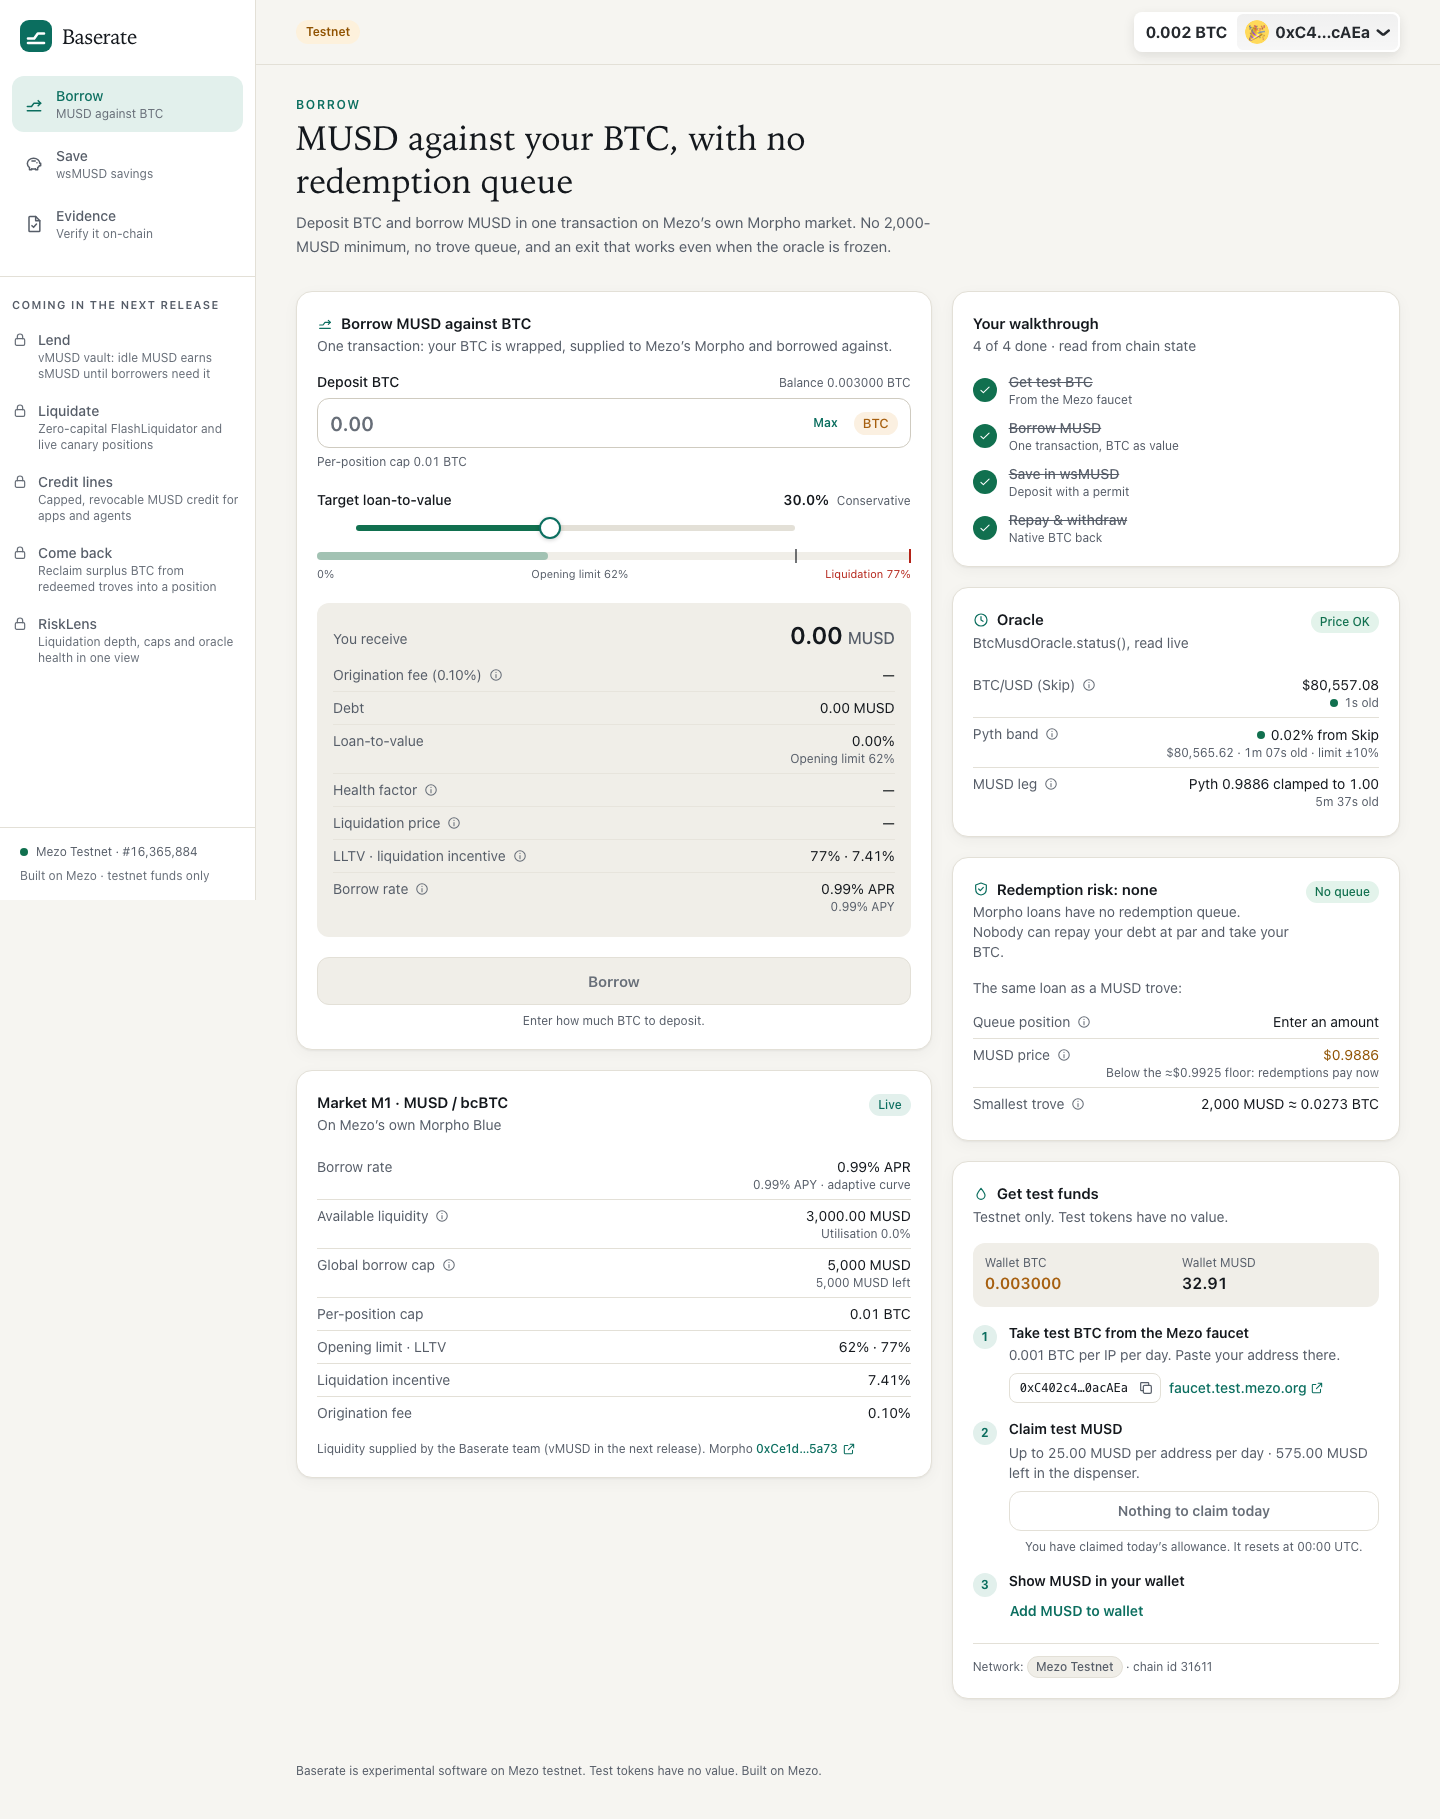
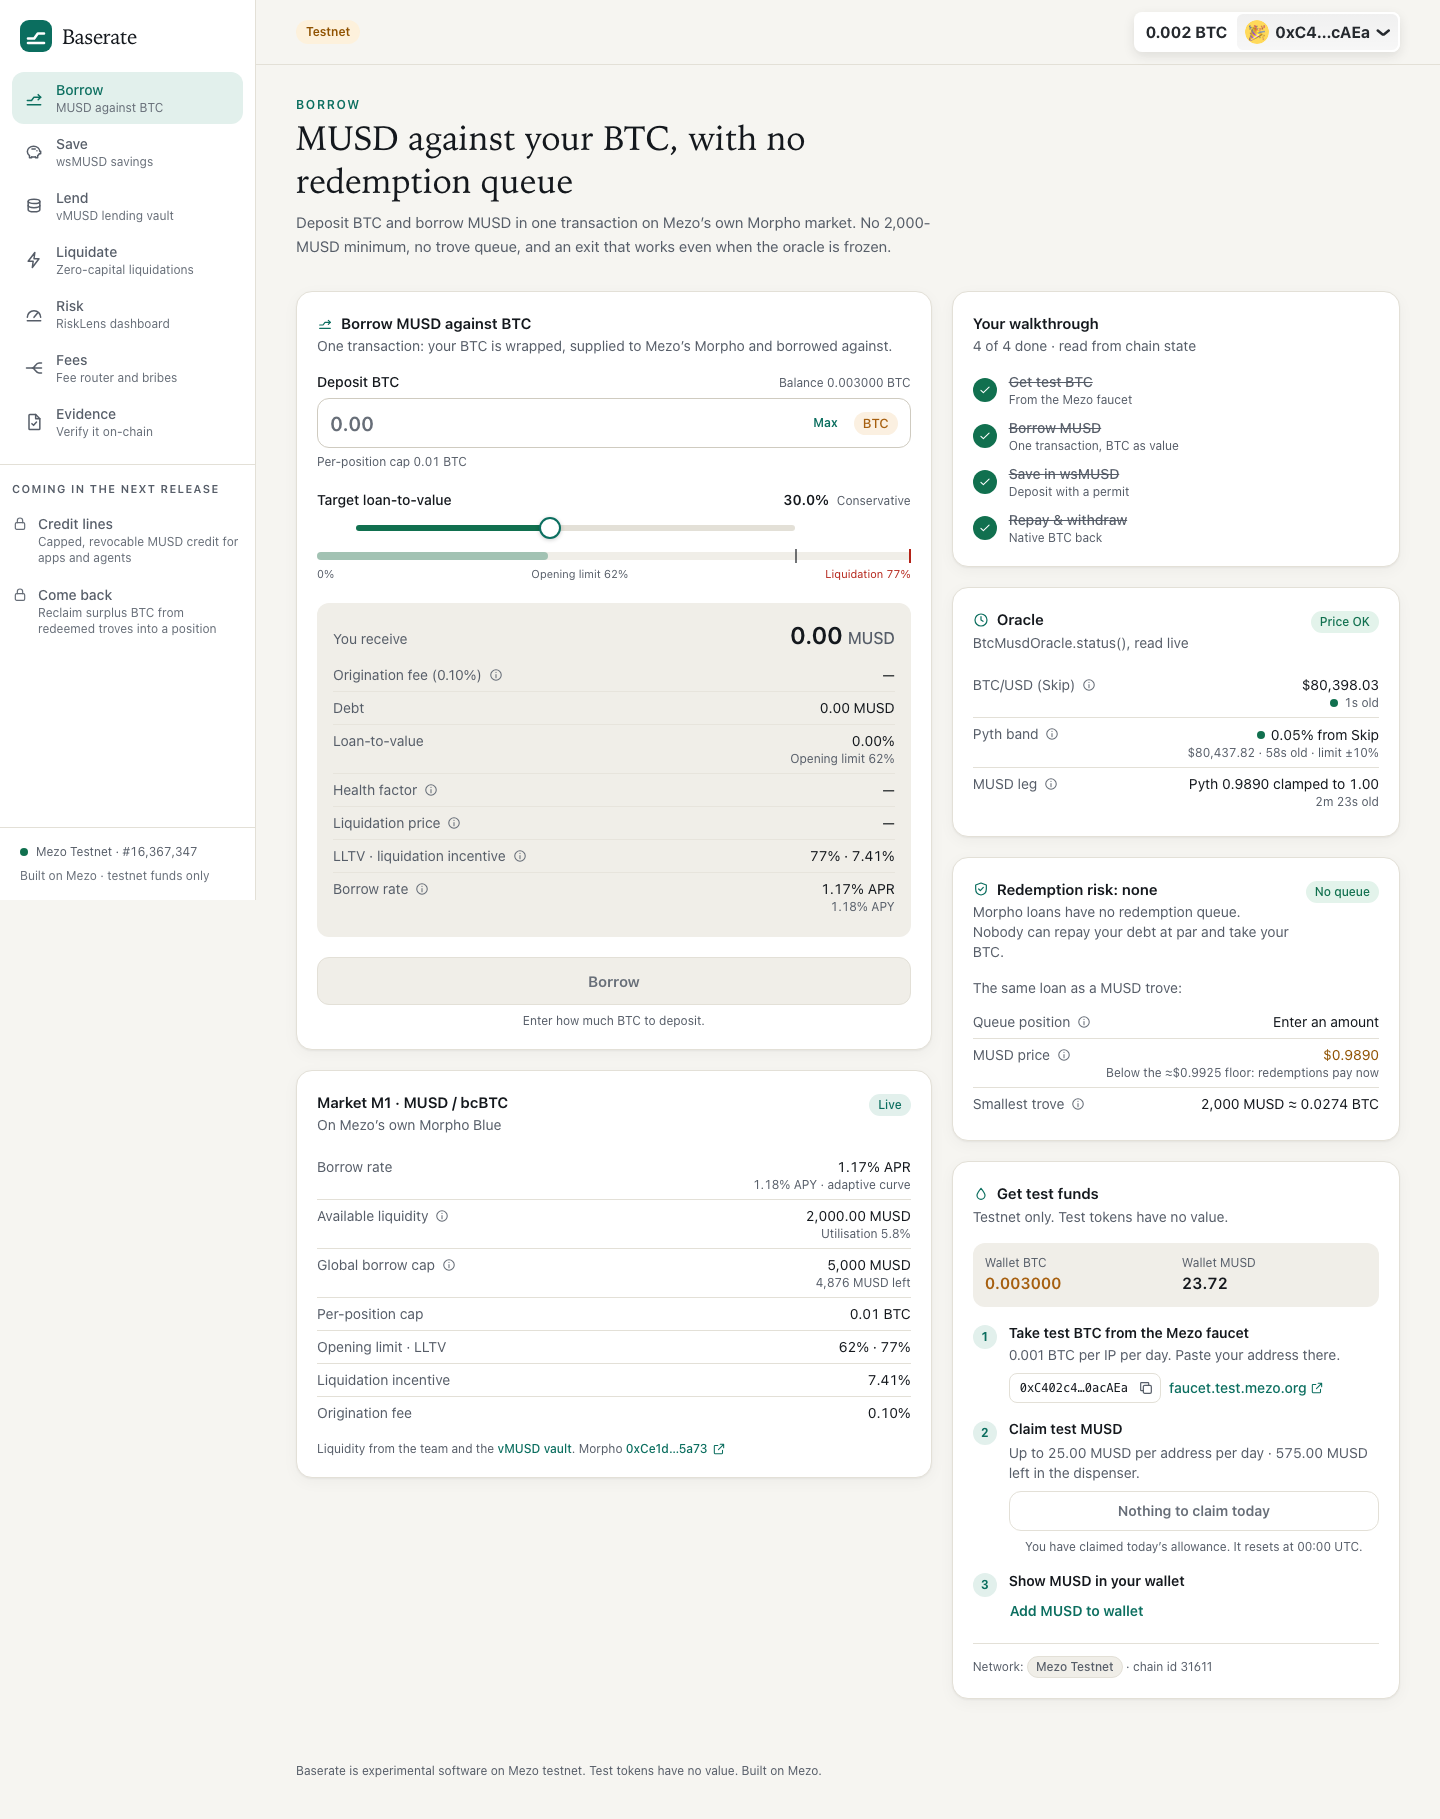
Screenshots of Lend, Liquidate, Risk and Fees (desktop and 390px), refreshed journey shots
Taken by the e2e harness (E2E_PHOTO_DIR=docs/media) with the funded test wallet connected, against a
local preview build on live Mezo testnet contracts. The Wave 1 journey screenshots are refreshed for
the new navigation; the recorded videos are unchanged.

diff --git a/apps/web/e2e/journey.spec.ts b/apps/web/e2e/journey.spec.ts
@@ -1084,6 +1084,17 @@ test.describe('judge journey on Mezo testnet', () => {
         p.getByRole('region', { name: 'Liquidation depth' }).locator('tbody tr'),
       ).toHaveCount(8)
     })
+    await photograph(
+      browser,
+      'risk-mobile',
+      '/risk',
+      async (p) => {
+        await expect(
+          p.getByRole('region', { name: 'Liquidation depth' }).locator('tbody tr'),
+        ).toHaveCount(8)
+      },
+      MOBILE,
+    )
   })
 
   test('9 · fees: FeeRouter preview, distributions and the timelocked fee switch', async ({
@@ -1136,6 +1147,17 @@ test.describe('judge journey on Mezo testnet', () => {
         timeout: 60_000,
       })
     })
+    await photograph(
+      browser,
+      'fees-mobile',
+      '/fees',
+      async (p) => {
+        await expect(p.getByRole('region', { name: 'Distributions' })).toContainText('MUSD split', {
+          timeout: 60_000,
+        })
+      },
+      MOBILE,
+    )
   })
 })
 
